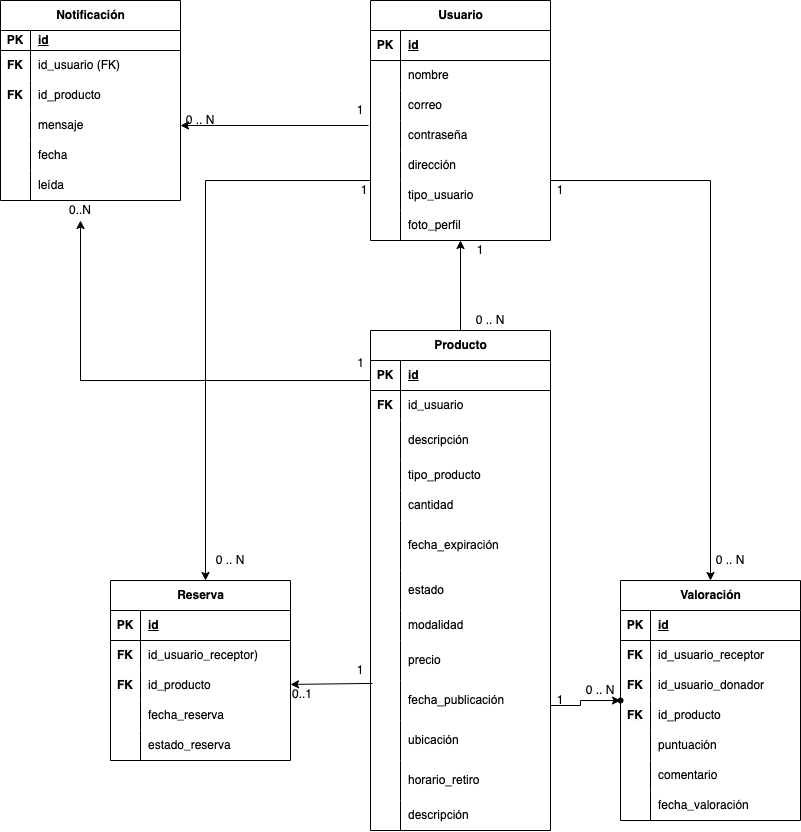
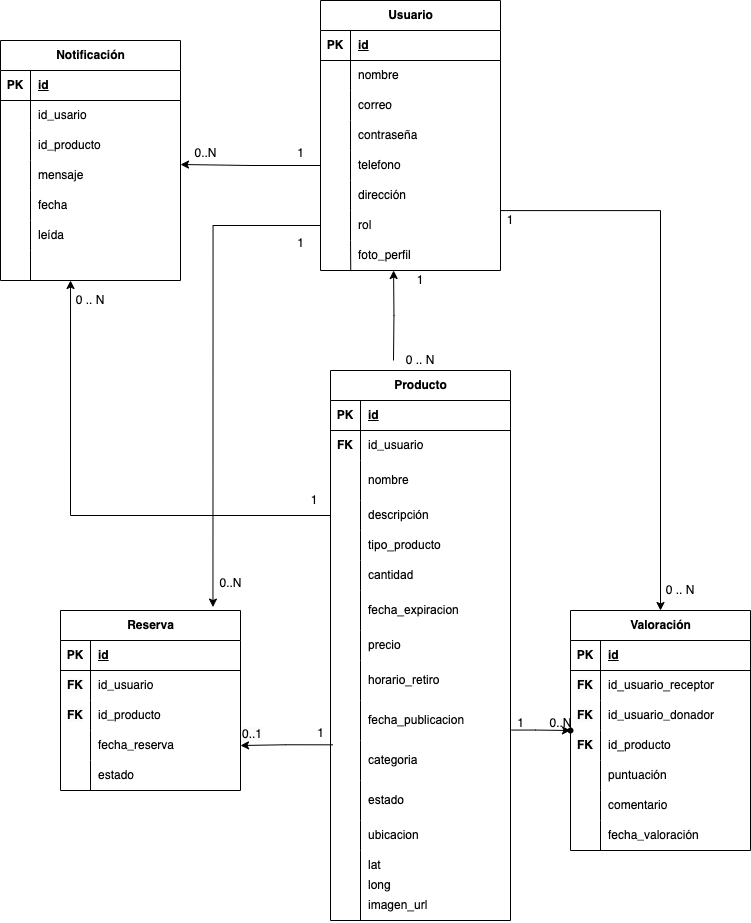
docs: actualiza README y agrega diagramas ER

diff --git a/README.md b/README.md
@@ -1,10 +1,10 @@
-# E1 :construction:
+# E2 :construction:
 
 * REMeal
 
 ## Link Deploy
 
-https://dainty-jelly-bf37ab.netlify.app/
+https://gitboom-frontend.netlify.app/
 
 ## Descripción general :thought_balloon:
 
